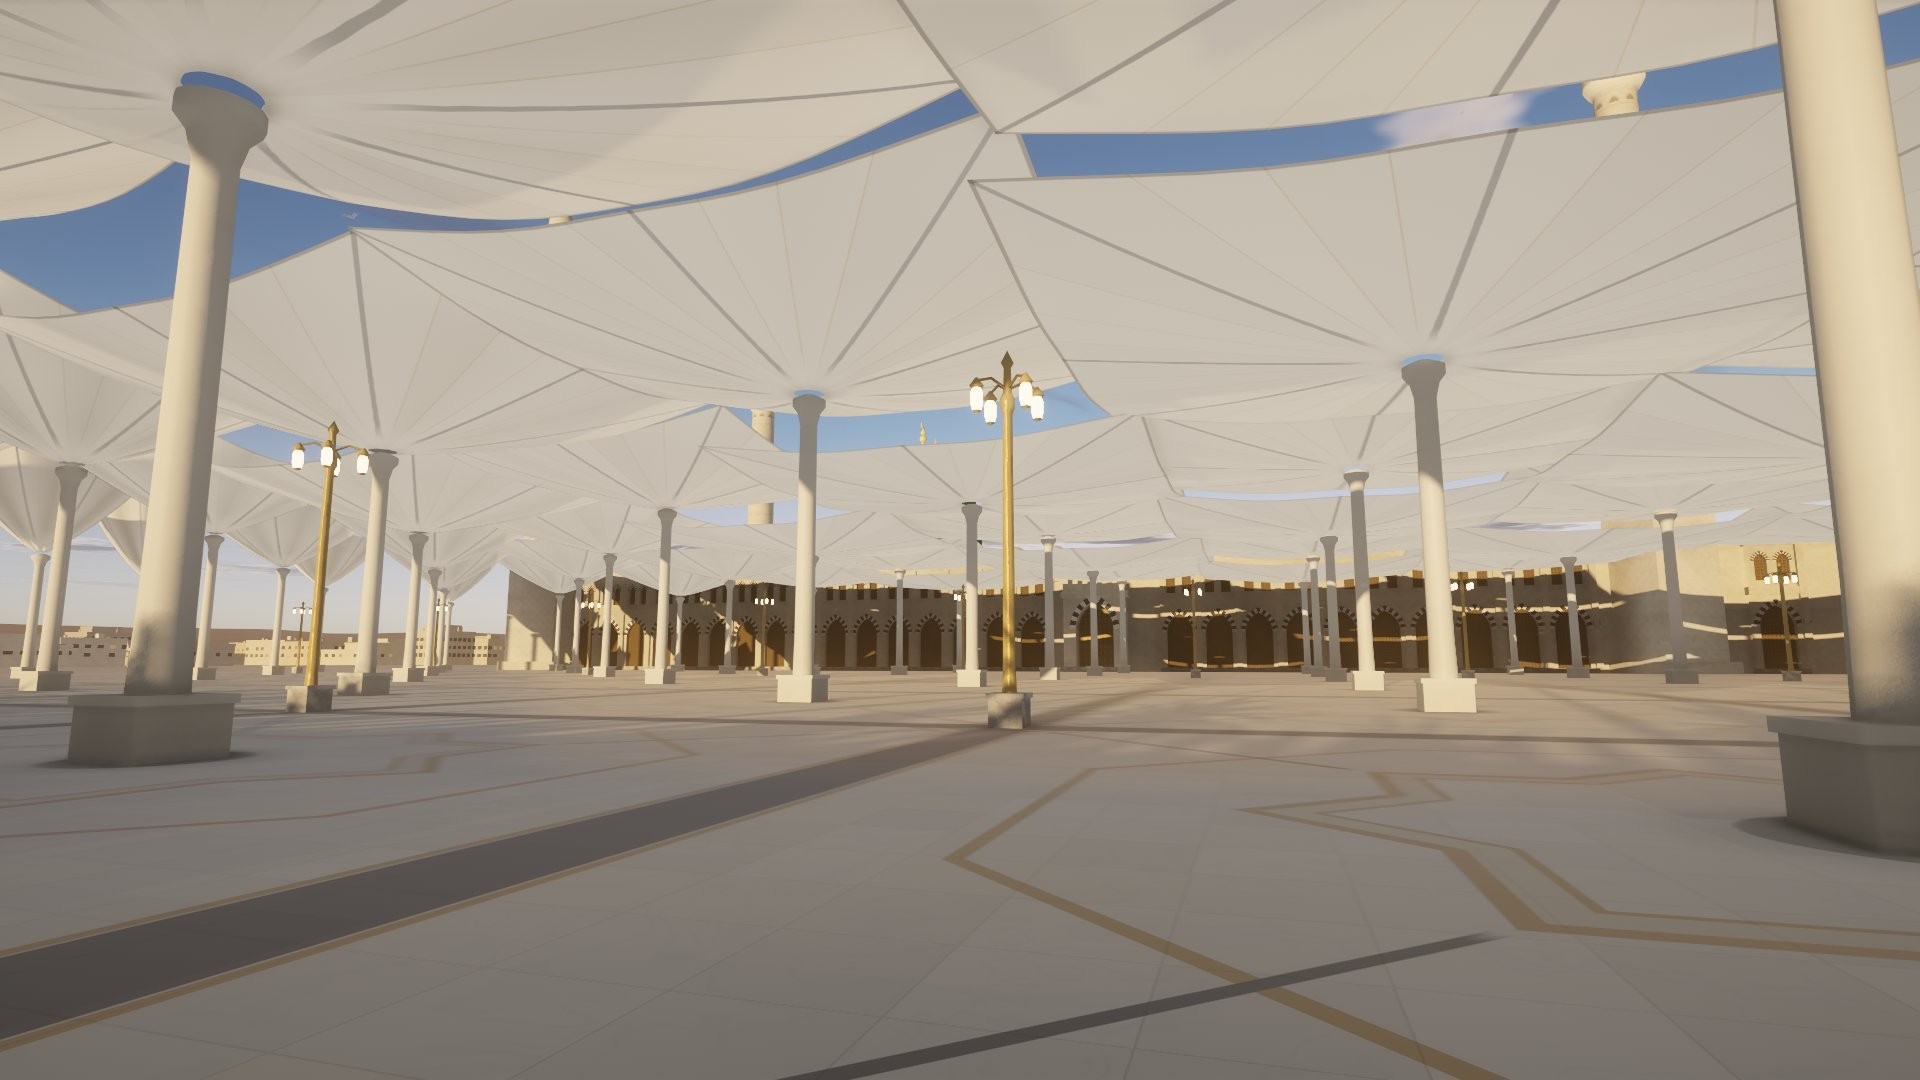
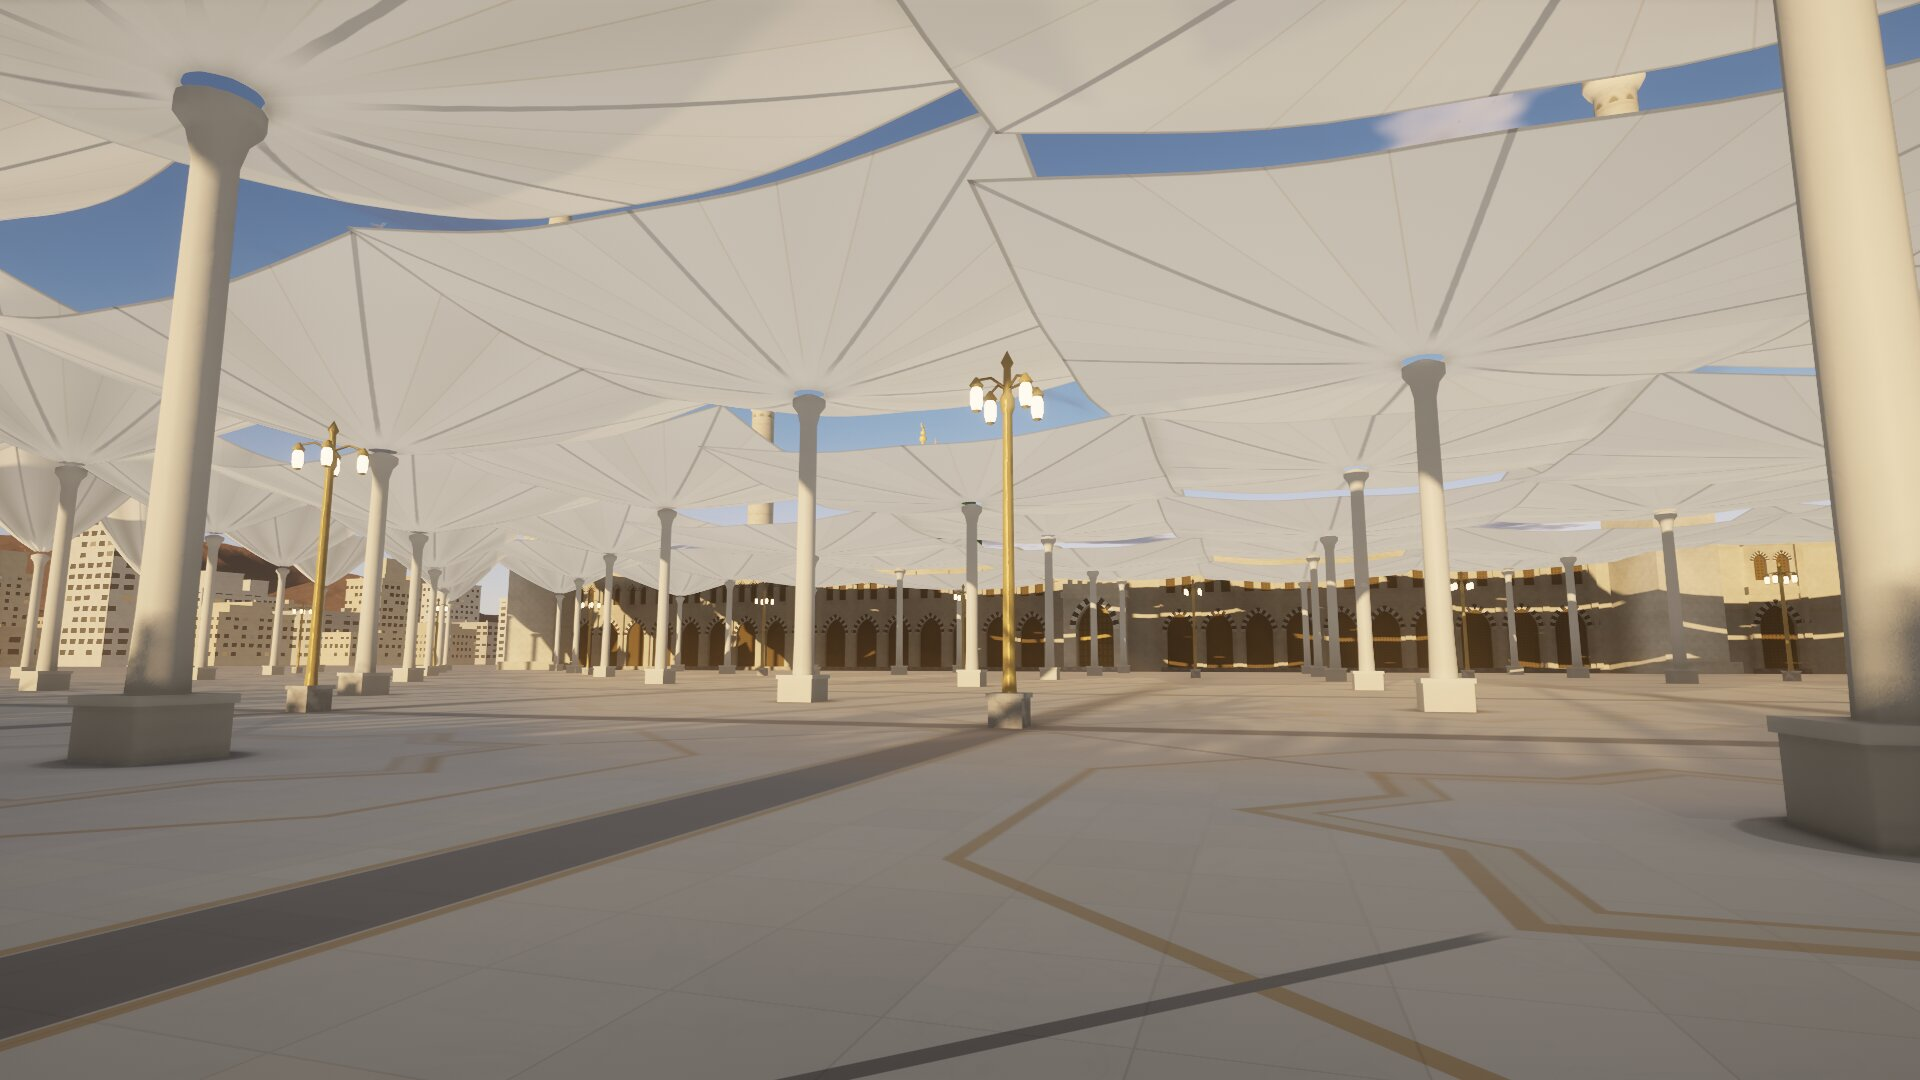
README screenshots: realism stage 3; NOTES: stage 3 shipped by Moey's decision with the night-window major open

Changed region(s): [[0.0, 0.4889, 0.2812, 0.6417]]

diff --git a/NOTES.md b/NOTES.md
@@ -121,6 +121,9 @@ Built with the `worldsmith` skill (`~/.shared/skills/worldsmith`), starting from
     night-window major is stage 3's own work). realism-s3 stays unshipped at ccba6ca; live stays stage 2. Moey can
     override: `git push origin realism-s3:main`, poll live until byte-identical, README screenshots from
     verify/s3-9-t0.
+  - SHIPPED stage 3 by Moey's decision (2026-11-19, relayed by the starting session: "Nabawi stage 3"), as built
+    with the in-scope night-window major (#6) still open. README screenshots from verify/s3-9-t0, pushed
+    realism-s3:main as a fast-forward. The next fix for #6 below is the first job of any further realism work.
   - Next fix for #6 (not started): in the city-window emission (shaders.js, mat 17), vary light per building and
     per floor instead of per window: take the dim level and the warm/cool choice from `hs(sd)` (building) and
     `hs(flr + sd)` (floor), keep per-window only the binary lit/unlit; keep the 1.0x ceiling (night aerial clip).
